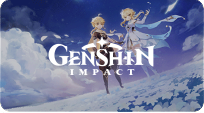
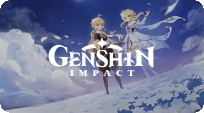
Switched MI backgrounds format to webp, improved some image assets quality

diff --git a/src/xxmi_launcher/gui/windows/main/launcher_frame/launcher_frame.py b/src/xxmi_launcher/gui/windows/main/launcher_frame/launcher_frame.py
@@ -72,7 +72,7 @@ class LauncherFrame(UIFrame):
             lambda event: self.update_background(event.importer_id))
 
     def update_background(self, importer_id):
-        self.set_background_image(f'background-image-{importer_id.lower()}.jpg',
+        self.set_background_image(f'background-image-{importer_id.lower()}.webp',
                                   width=self.master.cfg.width,
                                   height=self.master.cfg.height)
 
